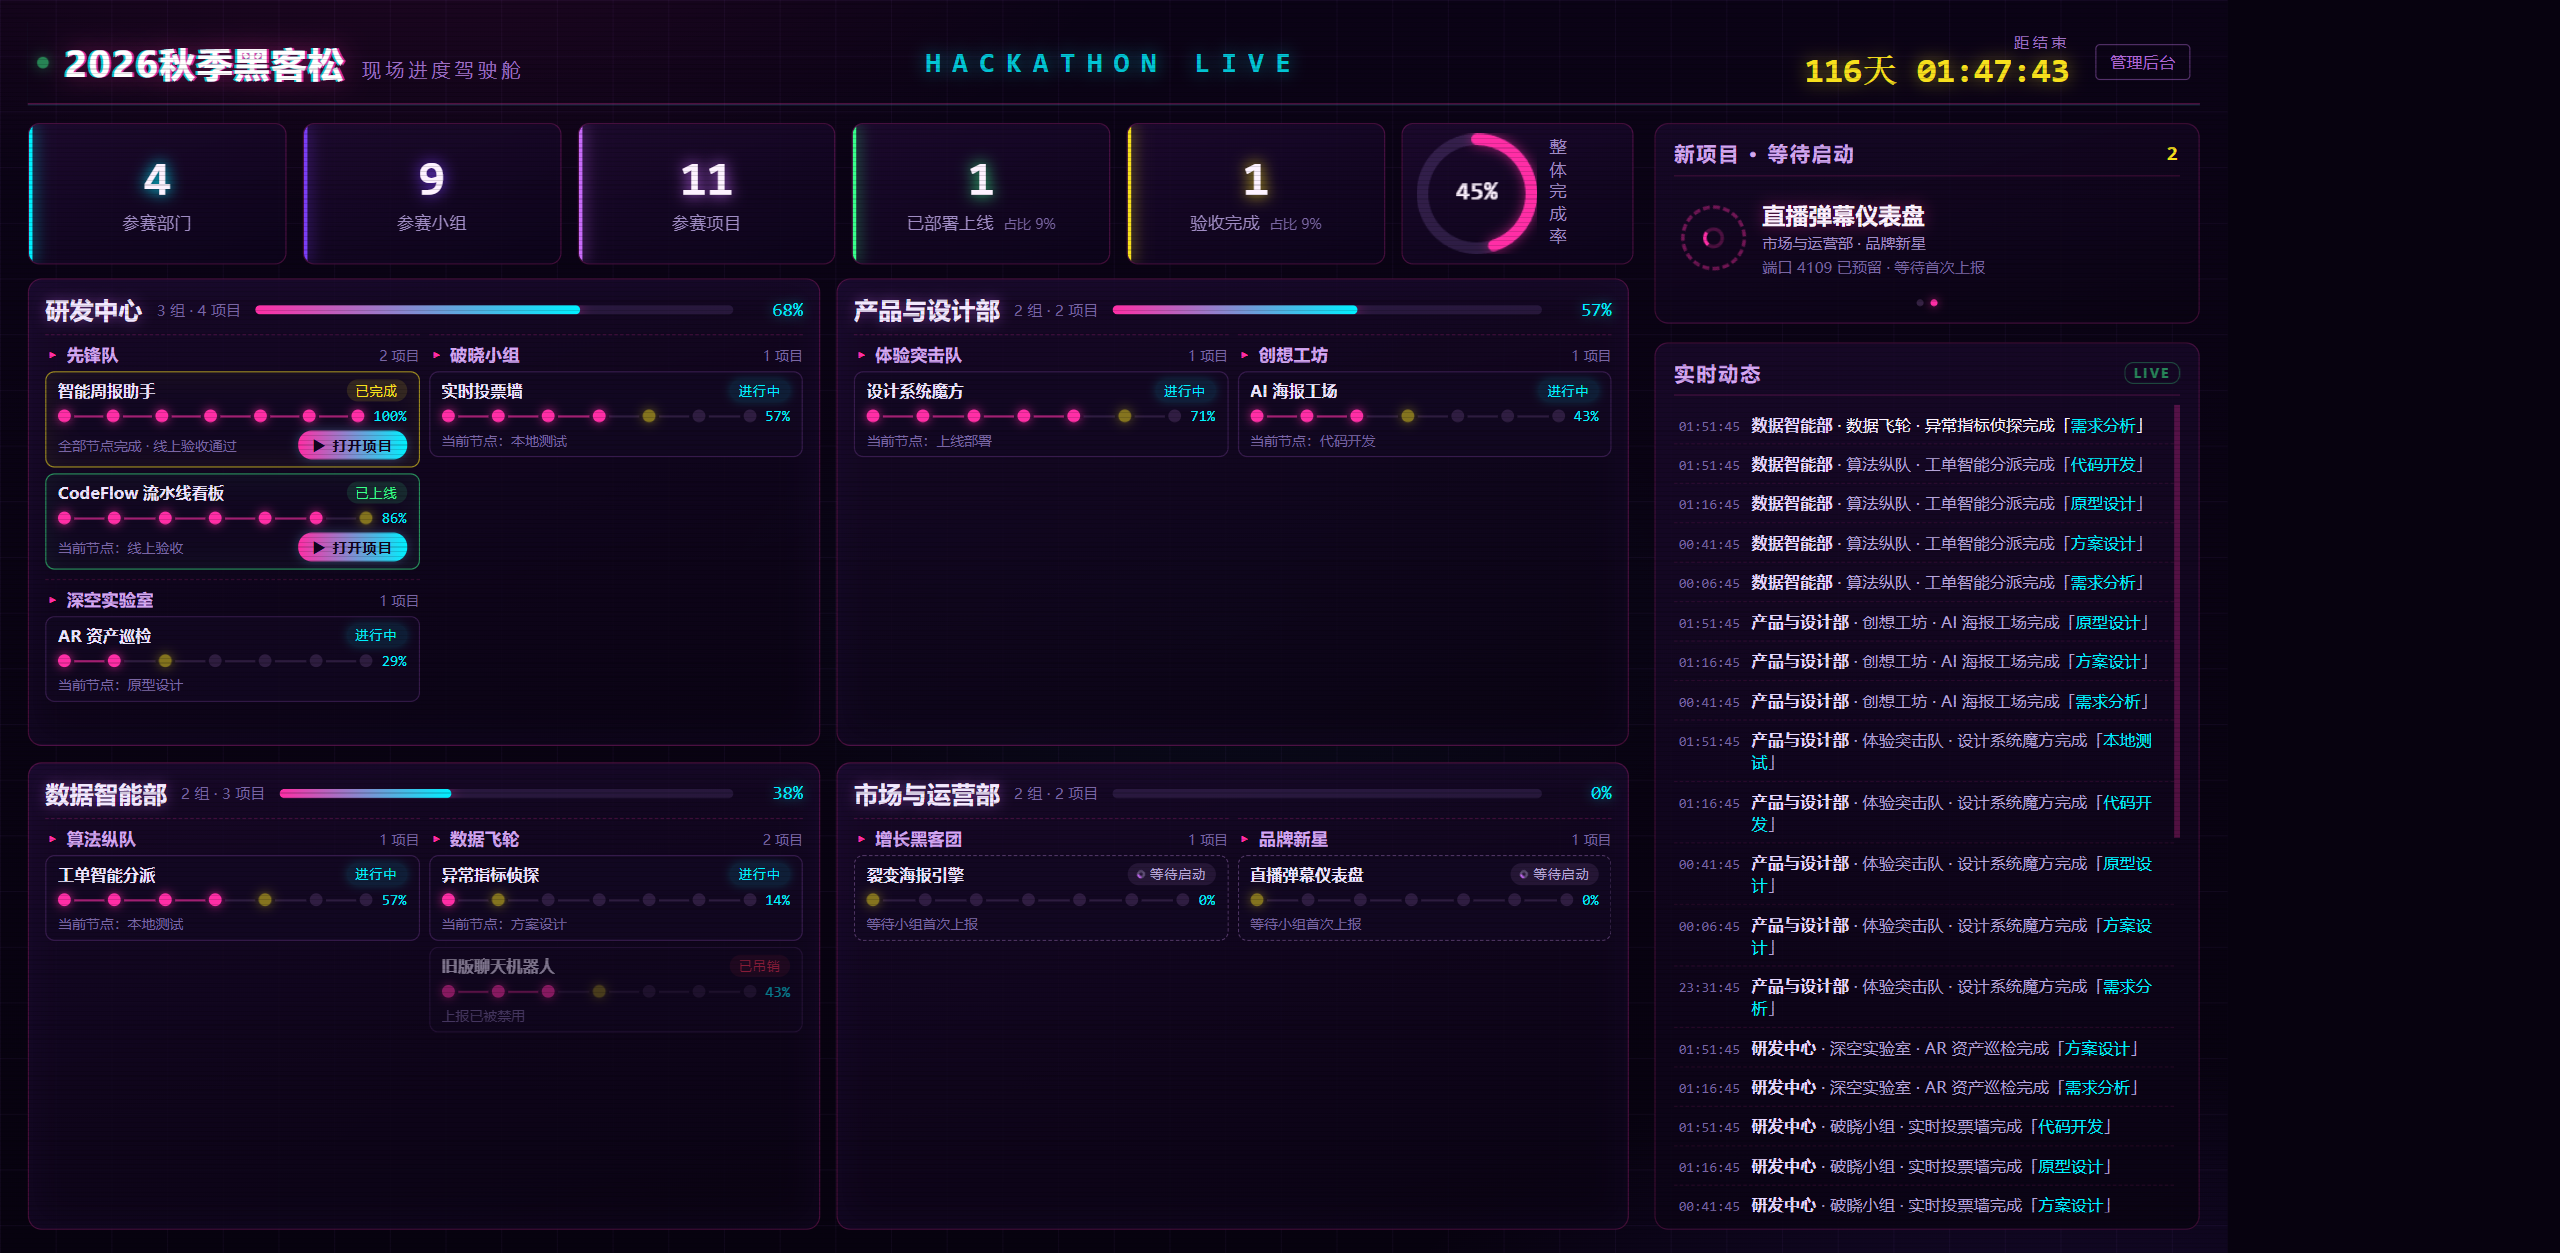
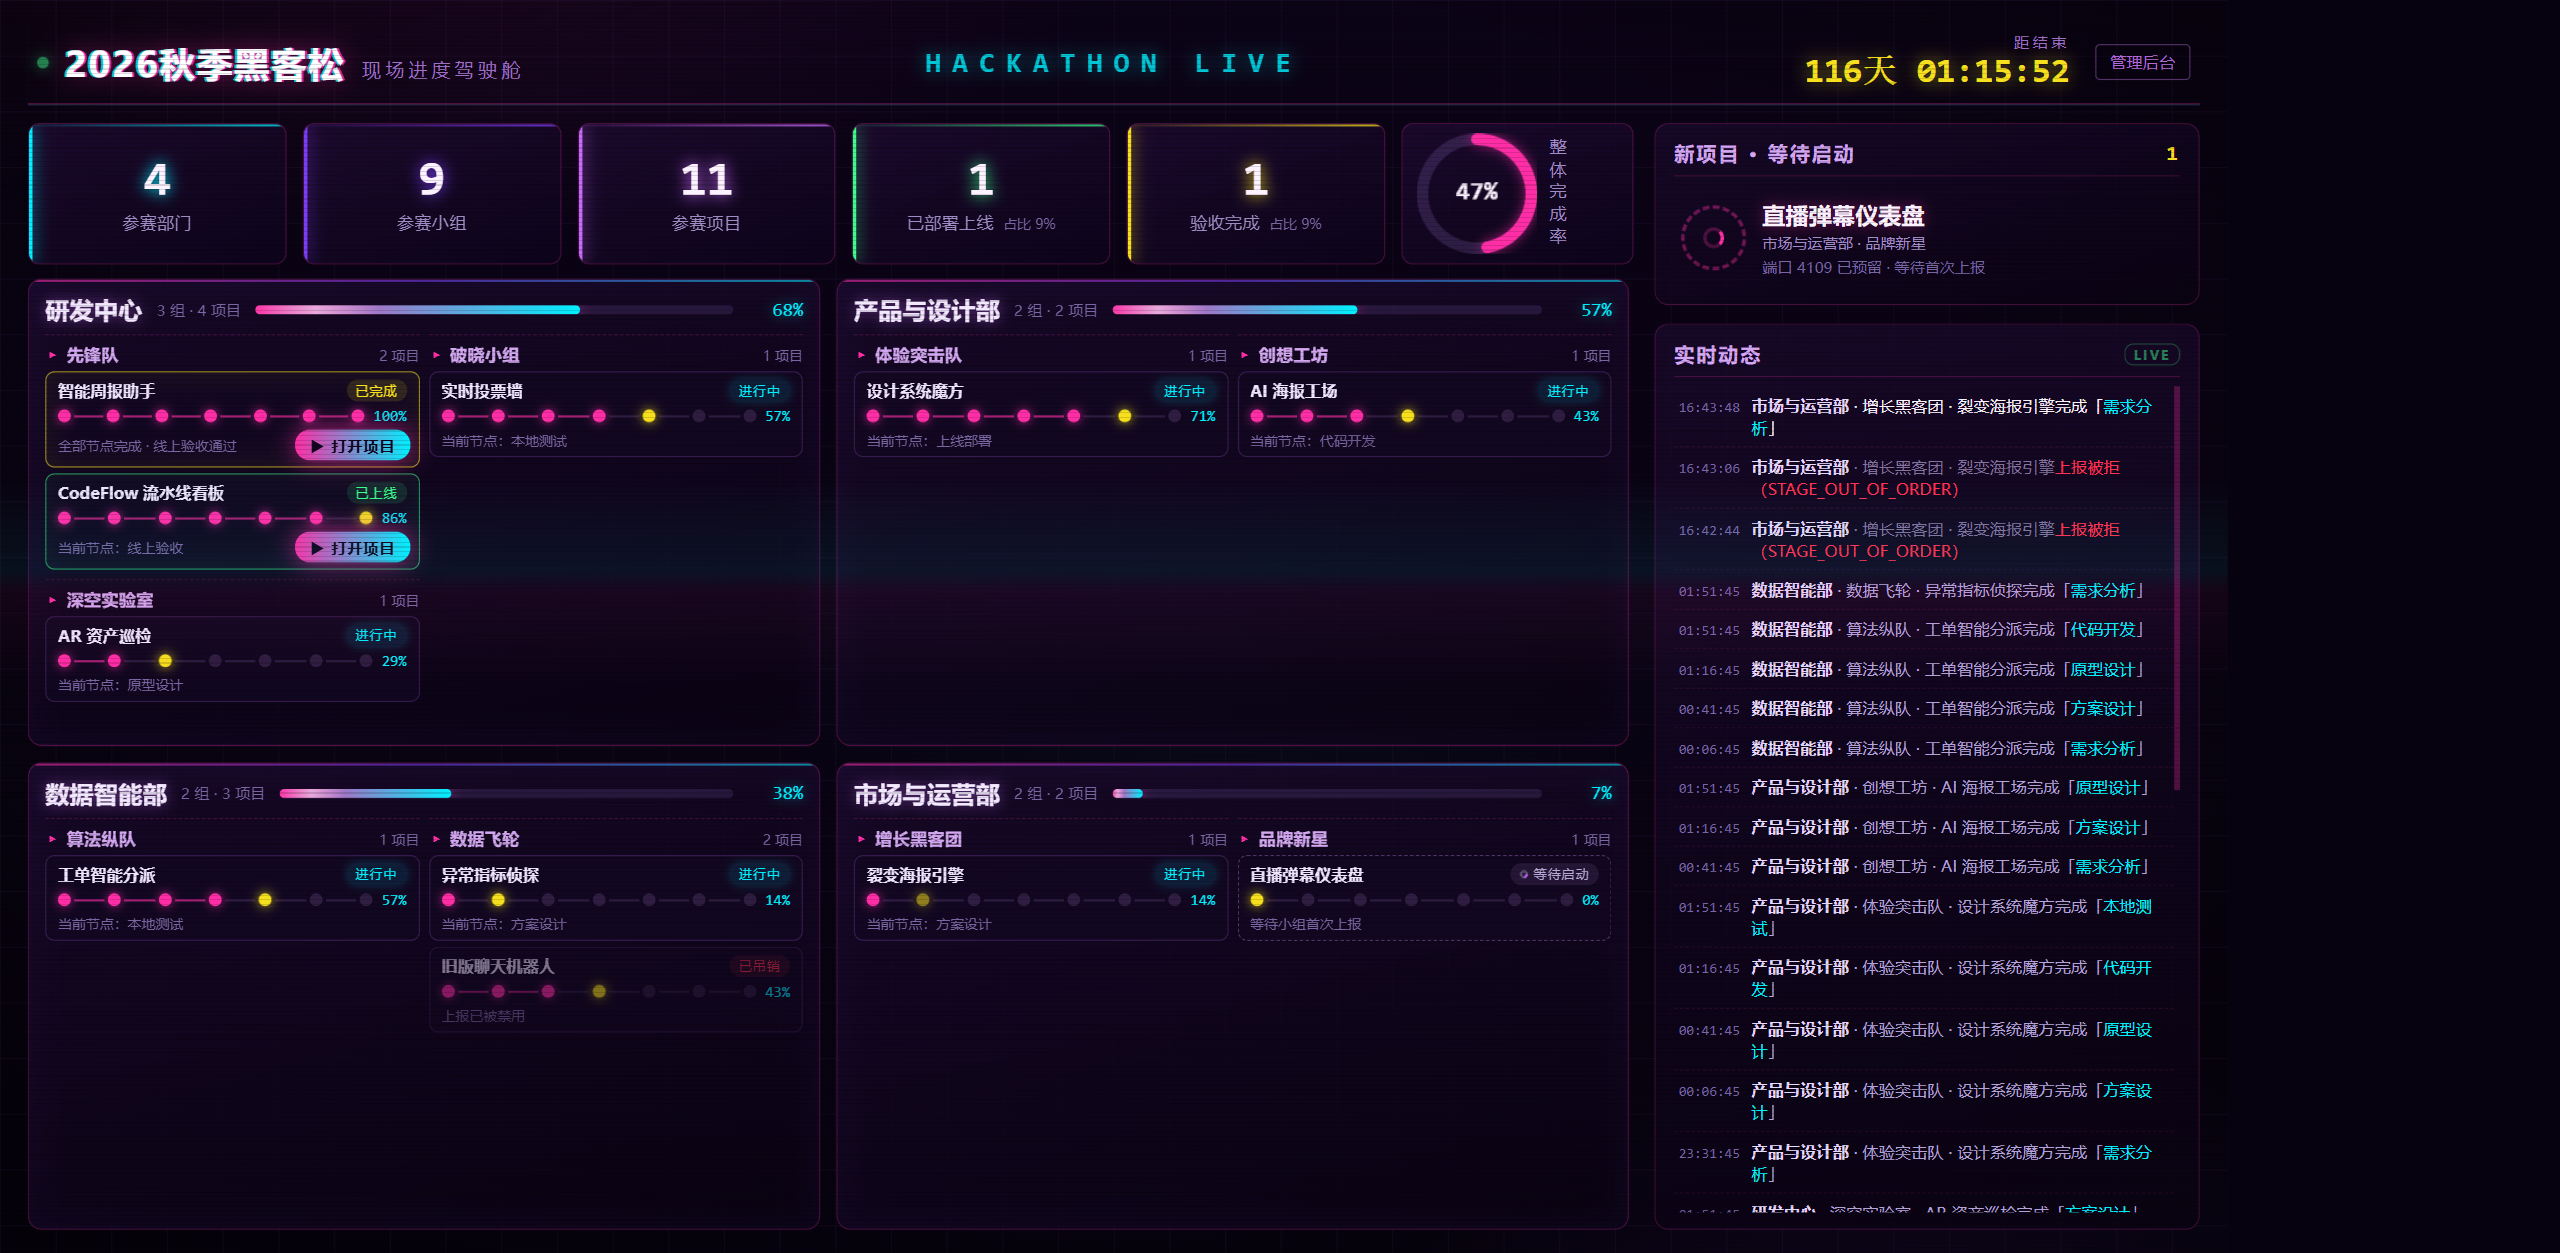
style: 大屏现场氛围动效强化
- 扫描线层叠加青/品红光束巡屏（9s 循环）
- KPI 数值变化跳动动效（React 检测值变化触发 bump）
- KPI 卡/部门卡顶部霓虹描边流光
- 进度条白色流光扫过
- 「打开项目」按钮心跳脉动
- 动态流最新一条滑入动效；背景加暗角聚焦

diff --git a/web/src/styles.css b/web/src/styles.css
@@ -16,6 +16,7 @@ a { color: #00f0ff; text-decoration: none; }
   width: 1920px; height: 1080px; transform-origin: top left;
   position: relative;
   background:
+    radial-gradient(1400px 900px at 50% 45%, rgba(0, 0, 0, 0) 55%, rgba(0, 0, 0, 0.55) 100%),
     radial-gradient(1100px 560px at 18% -12%, rgba(255, 46, 166, 0.10), transparent 60%),
     radial-gradient(1000px 520px at 92% 112%, rgba(122, 62, 247, 0.14), transparent 60%),
     radial-gradient(700px 380px at 55% 50%, rgba(0, 240, 255, 0.045), transparent 65%),
@@ -31,8 +32,13 @@ a { color: #00f0ff; text-decoration: none; }
 /* 扫描线覆层 */
 .screen::after {
   content: ''; position: absolute; inset: 0; pointer-events: none; z-index: 5;
-  background: repeating-linear-gradient(180deg, rgba(0, 0, 0, 0) 0 3px, rgba(0, 0, 0, 0.14) 3px 4px);
+  background:
+    linear-gradient(180deg, transparent 0%, rgba(0, 240, 255, 0.06) 45%, rgba(255, 46, 166, 0.05) 55%, transparent 100%) no-repeat,
+    repeating-linear-gradient(180deg, rgba(0, 0, 0, 0) 0 3px, rgba(0, 0, 0, 0.14) 3px 4px);
+  background-size: 100% 180px, auto;
+  animation: beamSweep 9s linear infinite;
 }
+@keyframes beamSweep { 0% { background-position: 0 -240px, 0 0; } 100% { background-position: 0 1240px, 0 0; } }
 
 .boot { height: 100%; display: flex; flex-direction: column; gap: 18px; align-items: center; justify-content: center; color: #8a6fb8; font-size: 18px; }
 .boot-ring { width: 44px; height: 44px; border-radius: 50%; border: 3px solid rgba(255, 46, 166, 0.25); border-top-color: #ff2ea6; animation: spin 1s linear infinite; }
@@ -64,6 +70,14 @@ a { color: #00f0ff; text-decoration: none; }
   font-family: Consolas, monospace; font-size: 24px; letter-spacing: 10px; font-weight: 700;
   color: rgba(0, 240, 255, 0.8);
   text-shadow: 0 0 16px rgba(0, 240, 255, 0.5);
+  animation: neonFlicker 5s linear infinite;
+}
+@keyframes neonFlicker {
+  0%, 88%, 100% { opacity: 1; }
+  89% { opacity: 0.35; }
+  90% { opacity: 1; }
+  93% { opacity: 0.55; }
+  94% { opacity: 1; }
 }
 .header-right { display: flex; align-items: center; gap: 22px; min-width: 480px; justify-content: flex-end; }
 .live-dot { width: 10px; height: 10px; border-radius: 50%; background: #ff3355; box-shadow: 0 0 10px rgba(255,51,85,.9); align-self: center; }
@@ -90,6 +104,16 @@ a { color: #00f0ff; text-decoration: none; }
   position: relative; overflow: hidden;
 }
 .kpi-card::after { content: ''; position: absolute; left: 0; top: 0; bottom: 0; width: 3px; background: var(--tone, #ff2ea6); box-shadow: 0 0 14px var(--tone, #ff2ea6); }
+.kpi-card::before {
+  content: ''; position: absolute; left: 0; right: 0; top: 0; height: 2px;
+  background: linear-gradient(90deg, transparent, var(--tone, #ff2ea6), transparent);
+  background-size: 200% 100%;
+  animation: shimmer 3.5s linear infinite;
+  opacity: 0.7;
+}
+@keyframes shimmer { 0% { background-position: 200% 0; } 100% { background-position: -200% 0; } }
+.kpi-value.bump { animation: bump .55s ease; }
+@keyframes bump { 30% { transform: scale(1.22); text-shadow: 0 0 26px var(--tone, #ff2ea6); } }
 .tone-cyan { --tone: #00f0ff; } .tone-blue { --tone: #7a3ef7; } .tone-violet { --tone: #c86bfa; }
 .tone-green { --tone: #39ff8b; } .tone-gold { --tone: #f7e01d; }
 .kpi-value { font-family: Consolas, monospace; font-size: 42px; font-weight: 700; color: #fdf2ff; line-height: 1; text-shadow: 0 0 14px var(--tone, #ff2ea6); }
@@ -114,12 +138,24 @@ a { color: #00f0ff; text-decoration: none; }
   background: linear-gradient(165deg, rgba(26, 9, 44, 0.78), rgba(9, 3, 18, 0.92));
   padding: 12px 14px; display: flex; flex-direction: column; gap: 8px; min-height: 0; overflow: hidden;
   box-shadow: inset 0 0 30px rgba(122, 62, 247, 0.06);
+  position: relative;
+}
+.dept-card::before {
+  content: ''; position: absolute; left: 0; right: 0; top: 0; height: 2px;
+  background: linear-gradient(90deg, #ff2ea6, #7a3ef7, #00f0ff);
+  opacity: 0.55;
 }
 .dept-head { display: flex; align-items: center; gap: 12px; }
 .dept-name { font-size: 21px; font-weight: 700; color: #f3e9ff; text-shadow: 0 0 12px rgba(200, 107, 250, 0.5); }
 .dept-meta { font-size: 13px; color: #7a66a3; }
 .dept-bar { flex: 1; height: 8px; border-radius: 4px; background: rgba(190, 150, 255, 0.12); overflow: hidden; }
-.dept-bar-fill { height: 100%; border-radius: 4px; background: linear-gradient(90deg, #ff2ea6, #00f0ff); box-shadow: 0 0 12px rgba(255, 46, 166, 0.6); transition: width .6s ease; }
+.dept-bar-fill { height: 100%; border-radius: 4px; background: linear-gradient(90deg, #ff2ea6, #00f0ff); box-shadow: 0 0 12px rgba(255, 46, 166, 0.6); transition: width .6s ease; position: relative; overflow: hidden; }
+.dept-bar-fill::after {
+  content: ''; position: absolute; top: 0; bottom: 0; width: 40%;
+  background: linear-gradient(90deg, transparent, rgba(255, 255, 255, 0.5), transparent);
+  animation: barShine 2.6s linear infinite;
+}
+@keyframes barShine { 0% { left: -45%; } 100% { left: 110%; } }
 .dept-progress { font-family: Consolas, monospace; font-size: 16px; color: #00f0ff; width: 48px; text-align: right; text-shadow: 0 0 10px rgba(0, 240, 255, 0.5); }
 
 .dept-groups { display: grid; grid-template-columns: repeat(2, minmax(0, 1fr)); gap: 8px; align-content: start; overflow-y: auto; min-height: 0; }
@@ -169,9 +205,14 @@ a { color: #00f0ff; text-decoration: none; }
   background: linear-gradient(90deg, #ff2ea6, #00f0ff);
   padding: 4px 12px; border-radius: 12px; letter-spacing: 1px;
   box-shadow: 0 0 16px rgba(255, 46, 166, 0.55);
-  animation: glow 2.4s ease infinite;
+  animation: heartbeat 1.6s ease infinite;
 }
-@keyframes glow { 50% { box-shadow: 0 0 6px rgba(0, 240, 255, 0.3); } }
+@keyframes heartbeat {
+  0%, 100% { transform: scale(1); box-shadow: 0 0 16px rgba(255, 46, 166, 0.55); }
+  12% { transform: scale(1.1); box-shadow: 0 0 26px rgba(0, 240, 255, 0.8); }
+  24% { transform: scale(1); }
+  36% { transform: scale(1.06); box-shadow: 0 0 20px rgba(255, 46, 166, 0.7); }
+}
 
 /* ---- 右栏 ---- */
 .panel-title { display: flex; align-items: center; justify-content: space-between; font-size: 17px; font-weight: 700; color: #d3a8f0; letter-spacing: 2px; padding-bottom: 8px; border-bottom: 1px solid rgba(255, 46, 166, 0.2); }
@@ -196,6 +237,8 @@ a { color: #00f0ff; text-decoration: none; }
 .feed-list::-webkit-scrollbar-thumb { background: rgba(255, 46, 166, 0.28); }
 .feed-empty { color: #55447a; font-size: 14px; text-align: center; padding: 20px 0; }
 .feed-item { display: flex; gap: 10px; padding: 7px 4px; border-bottom: 1px dashed rgba(255, 46, 166, 0.1); font-size: 14px; align-items: baseline; }
+.feed-item:nth-child(1) { animation: feedIn .5s ease; }
+@keyframes feedIn { from { transform: translateX(36px); opacity: 0; } to { transform: translateX(0); opacity: 1; } }
 .feed-item:nth-child(1) .feed-text { color: #fdf2ff; }
 .feed-time { font-family: Consolas, monospace; font-size: 12px; color: #7a66a3; flex-shrink: 0; }
 .feed-text { color: #b5a3d8; }

diff --git a/web/src/dashboard/KpiBar.jsx b/web/src/dashboard/KpiBar.jsx
@@ -1,5 +1,33 @@
-import React, { useEffect, useRef } from 'react';
+import React, { useEffect, useRef, useState } from 'react';
 import * as echarts from 'echarts';
+
+// 数值变化时跳动一下（现场远距离也能感知到"数字变了"）
+function useBump(value) {
+  const prev = useRef(value);
+  const [bump, setBump] = useState(false);
+  useEffect(() => {
+    if (prev.current !== value) {
+      prev.current = value;
+      setBump(true);
+      const t = setTimeout(() => setBump(false), 600);
+      return () => clearTimeout(t);
+    }
+  }, [value]);
+  return bump;
+}
+
+function Stat({ label, value, tone, sub }) {
+  const bump = useBump(value);
+  return (
+    <div className={`kpi-card tone-${tone}`}>
+      <div className={`kpi-value ${bump ? 'bump' : ''}`}>{value}</div>
+      <div className="kpi-label">
+        {label}
+        {sub && <span className="kpi-sub">{sub}</span>}
+      </div>
+    </div>
+  );
+}
 
 export default function KpiBar({ kpi }) {
   const ringRef = useRef(null);
@@ -57,17 +85,5 @@ export default function KpiBar({ kpi }) {
         <div className="kpi-ring-label">整体完成率</div>
       </div>
     </section>
-  );
-}
-
-function Stat({ label, value, tone, sub }) {
-  return (
-    <div className={`kpi-card tone-${tone}`}>
-      <div className="kpi-value">{value}</div>
-      <div className="kpi-label">
-        {label}
-        {sub && <span className="kpi-sub">{sub}</span>}
-      </div>
-    </div>
   );
 }
